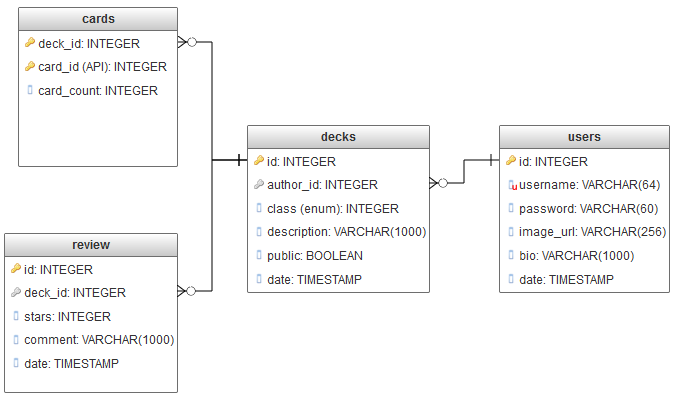
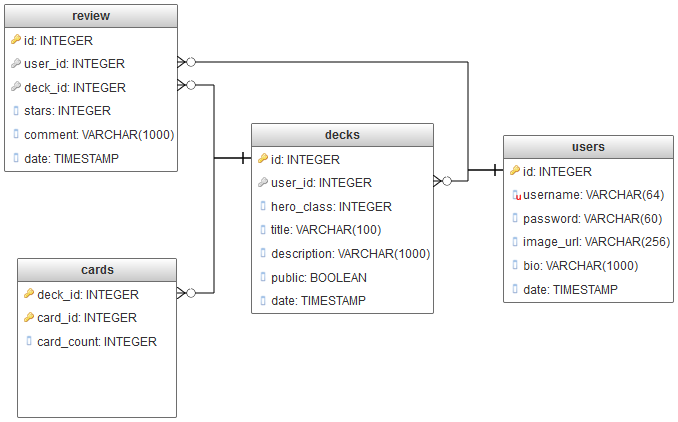
Implemeted user login and updated schema

Changed region(s): [[0.0, 0.0, 0.9941, 0.9925], [0.0, 0.3609, 0.2796, 0.4211]]

diff --git a/templates/base.html b/templates/base.html
@@ -1,0 +1,45 @@
+{% set user_id = session["user_id"]|string if "user_id" in session else "-" %}
+
+<!DOCTYPE html>
+<html>
+<head>
+	<meta charset="utf-8">
+	<title>{% block title %}TITLE{% endblock %}</title>
+
+	<link rel="stylesheet" href="https://unpkg.com/bootstrap/dist/css/bootstrap.css">
+	<script src="https://unpkg.com/jquery"></script>
+	<script src="https://unpkg.com/bootstrap"></script>
+
+	<link rel="stylesheet" href="{{ url_for('static', filename='stylesheets/style.css') }}">
+
+	<link rel="shortcut icon" href="/static/favicon.svg">
+</head>
+<body>
+	<nav class="navbar navbar-expand-lg navbar-dark bg-dark">
+		<a class="navbar-brand" href="/">HDB</a>
+		<button class="navbar-toggler" type="button" data-toggle="collapse" data-target="#navbarSupportedContent" aria-controls="navbarSupported Content" aria-expanded="false" aria-label="Toggle navigation">
+			<span class="navbar-toggler-icon"></span>
+		</button>
+		<div class="collapse navbar-collapse" id="navbarSupportedContent">
+			<ul class="navbar-nav ml-auto">
+				{%- if user_id != "-" %}
+				<li class="nav-item{% if request.path == '/user/'+user_id %} active{% endif %}">
+					<a class="nav-link" href="/user/{{ user_id }}">Profile</a>
+				</li>
+				<form method="POST" action="/logout" class="nav-item">
+					<button class="nav-link no-background">Logout</button>
+				</form>
+				{% else %}
+				<li class="nav-item{% if request.path == '/register' %} active{% endif %}">
+					<a class="nav-link" href="/register">Register</a>
+				</li>
+				<li class="nav-item{% if request.path == '/login' %} active{% endif %}">
+					<a class="nav-link" href="/login">Login</a>
+				</li>
+				{%- endif %}
+			</ul>
+		</div>
+	</nav>
+	{% block content %}CONTENT{% endblock -%}
+</body>
+</html>

diff --git a/templates/user.html b/templates/user.html
@@ -1,0 +1,34 @@
+{% extends "base.html" %}
+
+{% block title %}{{ user.username }} Profile{% endblock %}
+
+{% block content -%}
+<div class="container">
+	<div class="row">
+		<div class="col-lg-3 col-md-4 col-sm-4">
+			<div class="text-center">
+				<h2>{{ user.username }}</h2>
+				<img src="{% if user.image_url %}{{ user.image_url }}{% else %}/static/images/default-pic.png{% endif %}" alt="" class="profile-img" />
+			</div>
+		</div>
+		<div>
+			<div>
+				<h3>My Decks</h3>
+				<ul>
+					{%- for deck in user.decks %}
+					<li><a href="/deck/{{ deck.id }}">{{ deck.title }}</a></li>
+					{% endfor %}
+				</ul>
+			</div>
+			<div>
+				<h3>Reviews</h3>
+				<ul>
+					{%- for review in user.reviews %}
+					<li><a href="/deck/{{ review.deck.id }}#{{ review.id }}">{{ review.deck.title }}</a></li>
+					{% endfor %}
+				</ul>
+			</div>
+		</div>
+	</div>
+</div>
+{%- endblock %}

diff --git a/templates/register.html b/templates/register.html
@@ -1,0 +1,30 @@
+{% extends "base.html" %}
+
+{% block title %}Register{% endblock %}
+
+{% block content -%}
+<div class="row justify-content-md-center">
+	<div class="col-md-7 col-lg-5">
+		<h1 class="text-center">Register New User</h1>
+		{% with messages = get_flashed_messages(with_categories=True) %}
+			{% for category, message in messages %}
+				<div class="alert alert-{{ category }}" role="alert">{{ message }}</div>
+			{% endfor %}
+		{% endwith %}
+
+		<form method="POST">
+			{{ form.hidden_tag() }}
+
+			{% for field in form if field.widget.input_type != 'hidden' %}
+				{{ field.label }}
+				{{ field(class_="form-control") }}
+				{% for error in field.errors %}
+					<p class="text-danger">{{ error }}</p>
+				{% endfor %}
+			{% endfor %}
+
+			<button class="btn btn-primary btn-block btn-lg">Register</button>
+		</form>
+	</div>
+</div>
+{%- endblock %}

diff --git a/templates/login.html b/templates/login.html
@@ -1,0 +1,30 @@
+{% extends "base.html" %}
+
+{% block title %}Login{% endblock %}
+
+{% block content -%}
+<div class="row justify-content-md-center">
+	<div class="col-md-7 col-lg-5">
+		<h1 class="text-center">Login</h1>
+		{%- with messages = get_flashed_messages(with_categories=True) %}
+		{%- for category, message in messages %}
+		<div class="alert alert-{{ category }}" role="alert">{{ message }}</div>
+		{% endfor %}
+		{% endwith -%}
+
+		<form method="POST">
+			{{ form.hidden_tag() }}
+
+			{% for field in form if field.widget.input_type != 'hidden' -%}
+			{{ field.label }}
+			{{ field(class_="form-control") }}
+			{% for error in field.errors %}
+			<p class="text-danger">{{ error }}</p>
+			{% endfor %}
+			{% endfor -%}
+
+			<button class="btn btn-primary btn-block btn-lg">Login</button>
+		</form>
+	</div>
+</div>
+{%- endblock %}

diff --git a/templates/index.html b/templates/index.html
@@ -1,0 +1,7 @@
+{% extends "base.html" %}
+
+{% block title %}Hearthstone Deck Builder{% endblock %}
+
+{% block content -%}
+<h1 class="text-center">Hearthstone Deck Builder</h1>
+{%- endblock %}

diff --git a/static/stylesheets/style.css b/static/stylesheets/style.css
@@ -1,0 +1,8 @@
+.no-background {
+	background: none;
+	border: none;
+}
+
+.profile-img {
+	max-width: 80%;
+}

diff --git a/app.py b/app.py
@@ -1,0 +1,67 @@
+import datetime
+from flask import Flask, flash, jsonify, redirect, render_template, request, session
+
+from forms import LoginForm, RegisterForm
+from models import db, connect_db, User, Deck, Card, Review
+
+app = Flask(__name__)
+
+app.config["SECRET_KEY"] = "y7C8*#Suh$HNuUqj^H42%ZU6eKA*$RZiXvX02OlDYE&JHRVmZ#yhgc&RH9aY0D0q"
+app.config["SQLALCHEMY_DATABASE_URI"] = "postgresql://postgres@localhost/capstone1"
+app.config["SQLALCHEMY_TRACK_MODIFICATIONS"] = False
+
+connect_db(app)
+db.create_all()
+
+@app.route("/", methods=["GET"])
+def home():
+    """Home page."""
+
+    return render_template("index.html")
+
+@app.route("/register", methods=["GET", "POST"])
+def register():
+    """User registration."""
+
+    form = RegisterForm()
+    if form.validate_on_submit():
+        if not User.query.filter_by(username=form.username.data).first():
+            user = User(username=form.username.data, image_url=form.image_url.data, date=datetime.datetime.utcnow())
+            user.set_password(form.password.data)
+            db.session.add(user)
+            db.session.commit()
+            session["user_id"] = user.id
+            return redirect(f"/user/{user.id}")
+        form.username.errors.append("Username taken.")
+    return render_template("register.html", form=form)
+
+@app.route("/login", methods=["GET", "POST"])
+def login():
+    """User login."""
+
+    form = LoginForm()
+    if form.validate_on_submit():
+        user = User.authenticate(form.username.data, form.password.data)
+        if user:
+            session["user_id"] = user.id
+            return redirect(f"/user/{user.id}")
+        flash("Invalid username or password.", category="danger")
+    return render_template("login.html", form=form)
+
+@app.route("/logout", methods=["POST"])
+def logout():
+    """Logout current user."""
+
+    for key in list(session.keys()):
+        session.pop(key)
+    return redirect("/")
+
+@app.route("/user/<int:user_id>", methods=["GET"])
+def profile(user_id):
+    """Display user profile."""
+
+    return render_template("user.html", user=User.query.get_or_404(user_id))
+
+#@app.route("/deck/<int:deck_id>", methods=["GET"])
+
+#@app.route("/editor", methods=["GET", "POST"])

diff --git a/models.py b/models.py
@@ -1,0 +1,60 @@
+from flask_bcrypt import Bcrypt
+from flask_sqlalchemy import SQLAlchemy
+
+bcrypt = Bcrypt()
+db = SQLAlchemy()
+
+def connect_db(app):
+    db.app = app
+    db.init_app(app)
+
+class User(db.Model):
+    __tablename__ = "users"
+
+    id = db.Column(db.Integer, primary_key=True)
+    username = db.Column(db.Text, unique=True, nullable=False)
+    password = db.Column(db.Text, nullable=False)
+    image_url = db.Column(db.Text)
+    biography = db.Column(db.Text)
+    date = db.Column(db.DateTime, nullable=False)
+
+    def set_password(self, pwd):
+        self.password = bcrypt.generate_password_hash(pwd, rounds=14).decode("utf-8")
+
+    @classmethod
+    def authenticate(cls, username, password):
+        user = User.query.filter_by(username=username).first()
+        return user if user and bcrypt.check_password_hash(user.password, password) else None
+
+class Deck(db.Model):
+    __tablename__ = "decks"
+
+    id = db.Column(db.Integer, primary_key=True)
+    user_id = db.Column(db.Integer, db.ForeignKey("users.id"), nullable=False)
+    hero_class = db.Column(db.Integer, nullable=False)
+    title = db.Column(db.Text, unique=True, nullable=False)
+    description = db.Column(db.Text)
+    public = db.Column(db.Boolean)
+    date = db.Column(db.DateTime, nullable=False)
+
+    user = db.relationship("User", backref="decks")
+    cards = db.relationship("Card")
+
+class Card(db.Model):
+    __tablename__ = "cards"
+
+    deck_id = db.Column(db.Integer, db.ForeignKey("decks.id"), primary_key=True)
+    card_id = db.Column(db.Integer, primary_key=True, autoincrement=False)
+    card_count = db.Column(db.Integer, nullable=False)
+
+class Review(db.Model):
+    __tablename__ = "reviews"
+
+    id = db.Column(db.Integer, primary_key=True)
+    user_id = db.Column(db.Integer, db.ForeignKey("users.id"), nullable=False)
+    deck_id = db.Column(db.Integer, db.ForeignKey("decks.id"), nullable=False)
+    stars = db.Column(db.Integer, nullable=False)
+    comments = db.Column(db.Text)
+    date = db.Column(db.DateTime, nullable=False)
+
+    user = db.relationship("User", backref="reviews")

diff --git a/forms.py b/forms.py
@@ -1,0 +1,12 @@
+from flask_wtf import FlaskForm
+from wtforms import StringField, PasswordField
+from wtforms.validators import InputRequired, Length, Optional, URL
+
+class RegisterForm(FlaskForm):
+    username = StringField("Username", validators=[InputRequired(), Length(min=8, message="Must be at least %(min)d characters.")])
+    image_url = StringField("Image URL", validators=[Optional(), URL()])
+    password = PasswordField("Password", validators=[InputRequired(), Length(min=8, max=60, message="Must be %(min)d-%(max)d characters.")])
+
+class LoginForm(FlaskForm):
+    username = StringField("Username", validators=[InputRequired(), Length(min=8, max=60, message="Must be %(min)d-%(max)d characters.")])
+    password = PasswordField("Password", validators=[InputRequired(), Length(min=8, max=60, message="Must be %(min)d-%(max)d characters.")])
